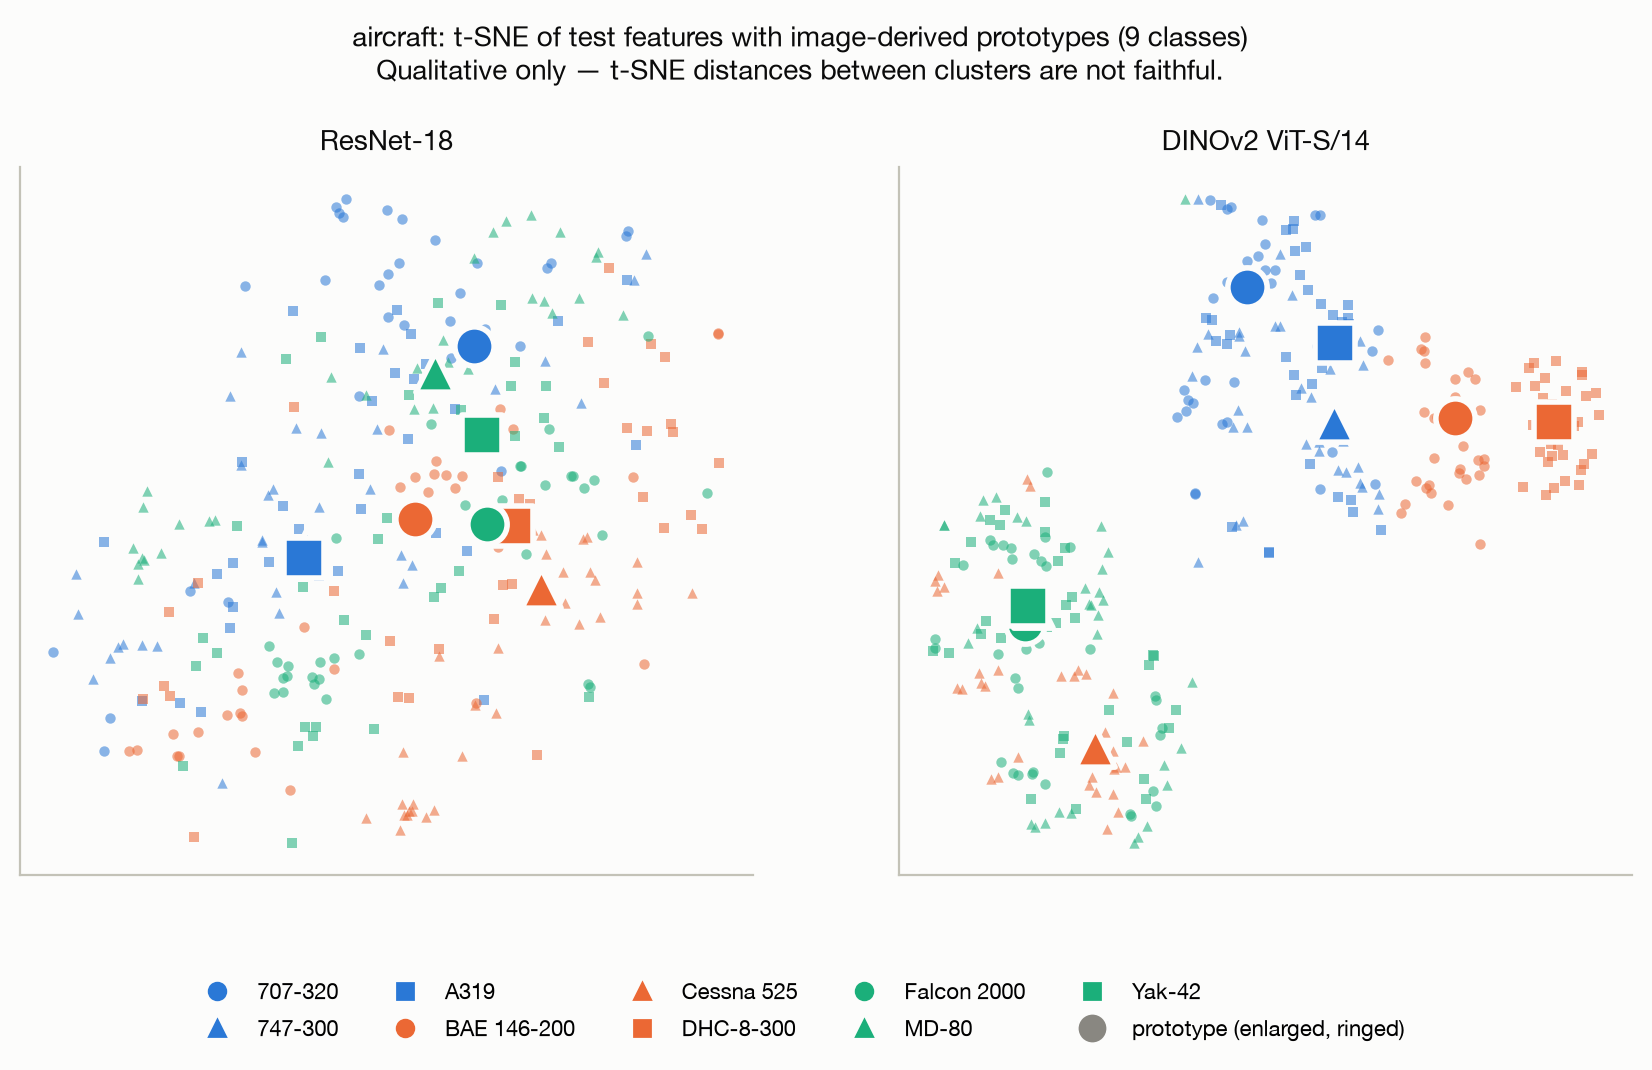
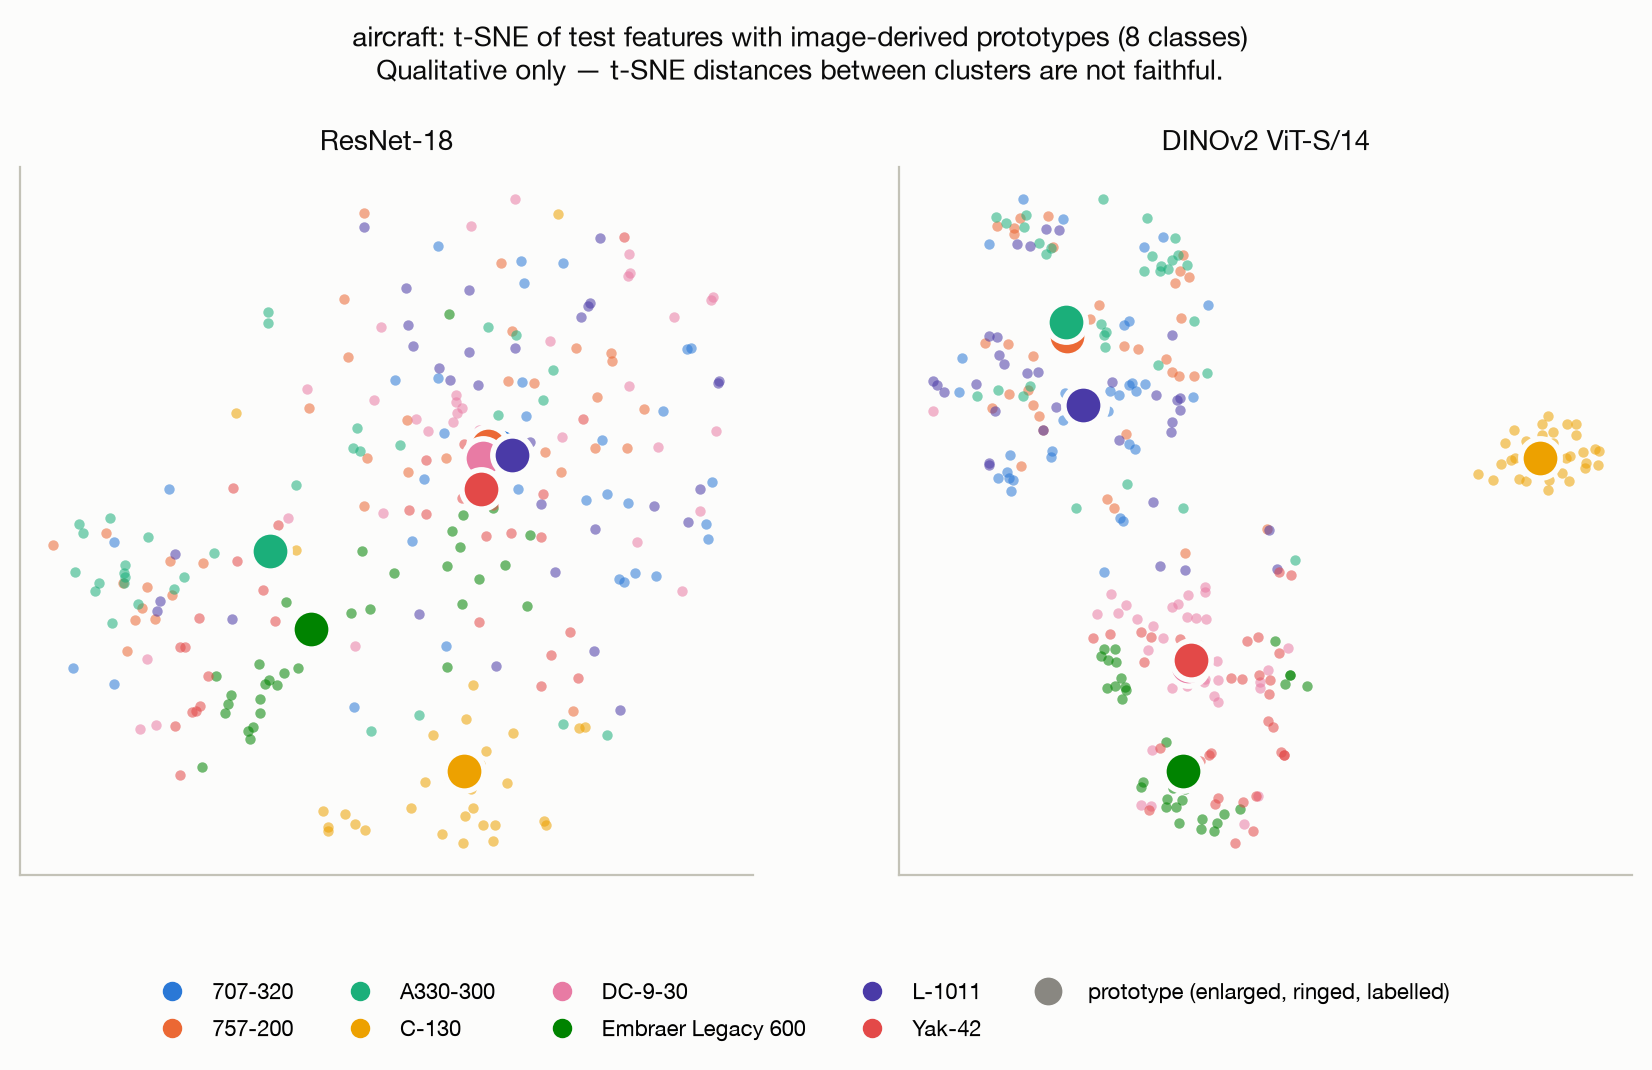
Drop marker shapes from feature plots; use eight colours only

diff --git a/src/figures_stage1.py b/src/figures_stage1.py
@@ -2,10 +2,8 @@
 
     python -m src.figures
 
-Colours come from a palette validated for colour-vision deficiency (worst
-adjacent CVD ΔE 24.7 for the two-series charts; worst all-pairs ΔE 9.2 for the
-three-colour scatter). These are static figures for a printed report, so they
-deliberately commit to the light surface only.
+Colours come from a validated categorical palette. These are static figures for
+a printed report, so they deliberately commit to the light surface only.
 """
 
 from __future__ import annotations
@@ -44,10 +42,13 @@ ENCODER_COLOR = {"resnet18": BLUE, "dinov2_vits14": ORANGE}
 ENCODER_LABEL = {"resnet18": "ResNet-18", "dinov2_vits14": "DINOv2 ViT-S/14"}
 HEAD_STYLE = {"linear": "-", "prototypes": "--"}
 
-# Nine classes need nine identities. Three validated hues x three marker shapes
-# gives that without a ninth generated hue: every pair differs in hue or shape.
-CLASS_COLORS = (BLUE, ORANGE, AQUA)
-CLASS_MARKERS = ("o", "^", "s")
+# Class identity is carried by hue alone: the eight validated palette slots, one
+# per class. Marker shapes would separate them further under colour-vision
+# deficiency, but were dropped at the supervisor's request; the legend carries
+# the colour-to-class mapping instead.
+CLASS_COLORS = (
+    BLUE, ORANGE, AQUA, "#eda100", "#e87ba4", "#008300", "#4a3aa7", "#e34948",
+)
 
 # The setting whose errors are worth showing: the best probe on each dataset.
 REPRESENTATIVE = {"dtd": ("resnet18", "full", 0), "aircraft": ("dinov2_vits14", "full", 0)}
@@ -99,7 +100,10 @@ def fig_accuracy_vs_k() -> None:
     fig, axes = plt.subplots(1, 2, figsize=(9.5, 4.0), sharey=True)
 
     for ax, dataset in zip(axes, config.DATASETS):
-        subset = stats[stats["dataset"] == dataset]
+        # The ledger is shared with Stage 2, so restrict to the Stage 1 heads.
+        subset = stats[
+            (stats["dataset"] == dataset) & (stats["head"].isin(HEAD_STYLE))
+        ]
         for (encoder, head), group in subset.groupby(["encoder", "head"], observed=True):
             group = group.sort_values("K")
             ax.errorbar(
@@ -294,20 +298,16 @@ def fig_feature_projection(dataset: str) -> None:
         labels = y_test[keep].numpy()
 
         for slot, cls in enumerate(classes):
-            mask = labels == cls
-            style = dict(
-                color=CLASS_COLORS[slot // 3], marker=CLASS_MARKERS[slot % 3]
-            )
-            ax.scatter(*xy[mask].T, s=14, alpha=0.55, linewidths=0, **style)
-            # The prototype gets a surface ring so it stays readable where it
-            # overlaps its own cloud.
+            color = CLASS_COLORS[slot]
             ax.scatter(
-                *proto_xy[slot],
-                s=200,
-                edgecolors=SURFACE,
-                linewidths=2,
-                zorder=3,
-                **style,
+                *xy[labels == cls].T, s=14, alpha=0.55, linewidths=0, color=color
+            )
+            # The prototype gets a surface ring so it stays readable where it
+            # overlaps its own cloud, and a direct label so the class can be
+            # identified without relying on hue.
+            ax.scatter(
+                *proto_xy[slot], s=200, color=color, edgecolors=SURFACE,
+                linewidths=2, zorder=3,
             )
 
         ax.set_title(ENCODER_LABEL[encoder])
@@ -317,17 +317,15 @@ def fig_feature_projection(dataset: str) -> None:
 
     handles = [
         Line2D(
-            [], [], color=CLASS_COLORS[s // 3], marker=CLASS_MARKERS[s % 3],
-            linestyle="", markersize=6, label=names[c],
+            [], [], color=CLASS_COLORS[s], marker="o", linestyle="",
+            markersize=6, label=names[c],
         )
         for s, c in enumerate(classes)
     ] + [
-        # Prototypes are drawn with their own class's shape and hue, enlarged
-        # and ringed — so the legend entry must show that, not a new marker.
         Line2D(
             [], [], color=MUTED, marker="o", linestyle="", markersize=12,
             markeredgecolor=SURFACE, markeredgewidth=2,
-            label="prototype (enlarged, ringed)",
+            label="prototype (enlarged, ringed, labelled)",
         )
     ]
     fig.legend(

diff --git a/src/config.py b/src/config.py
@@ -68,7 +68,9 @@ AIRCRAFT_BANNER_PX = 20
 
 # --- Figures ------------------------------------------------------------
 
-VIZ_NUM_CLASSES = 9                     # readable subset for the 2-D projections
+# Readable subset for the 2-D projections. Eight, not nine, so each class can
+# take one of the eight validated palette hues without a generated ninth.
+VIZ_NUM_CLASSES = 8
 
 
 def cache_path(dataset: str, encoder: str, split: str):
